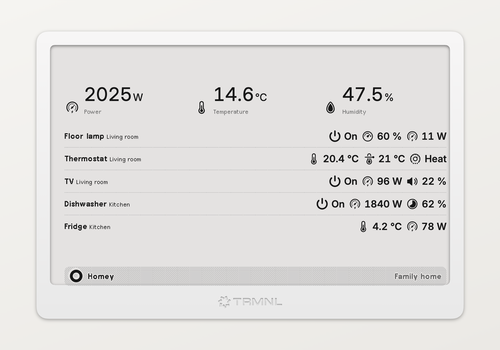
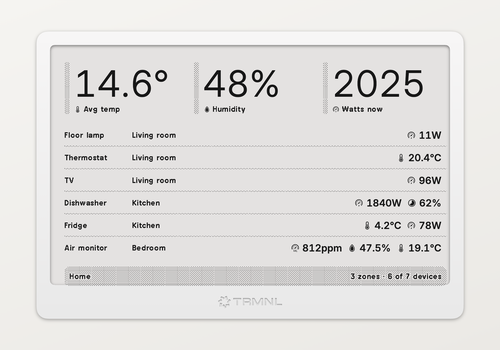
Added a Flow card and brought the listing in line with the store guidelines
Guideline 1.9 asks every app for Flow cards; this one had none. A single
action, "Send home to TRMNL", pushes every device and zone right away
through the same path as the settings page's test push, and raises so a
failed push shows in the Flow.

Guideline 1.2 forbids the app's name in its description, so the tagline
is now "Your home without distractions". Guideline 1.4 forbids the Homey
logo or name in store images; the native screen carries both in its
title bar, so the images show the Home Overview recipe instead.

diff --git a/app.js b/app.js
@@ -33,6 +33,11 @@ module.exports = class TrmnlCompanionApp extends Homey.App {
     });
     this.startInterval();
 
+    this.homey.flow.getActionCard('send_home').registerRunListener(async () => {
+      const result = await this.pushNow();
+      if (!result.ok) throw new Error(result.error);
+    });
+
     // Bring up the HomeyAPI OFF the await path so a slow bridge never hangs onInit.
     this.homey.setTimeout(() => this.initializeApi(), 10);
   }
